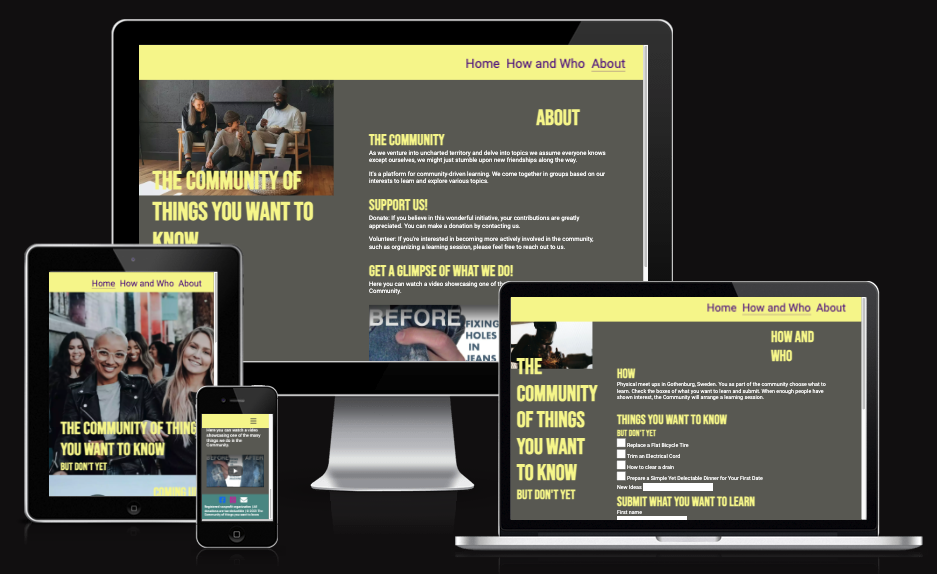
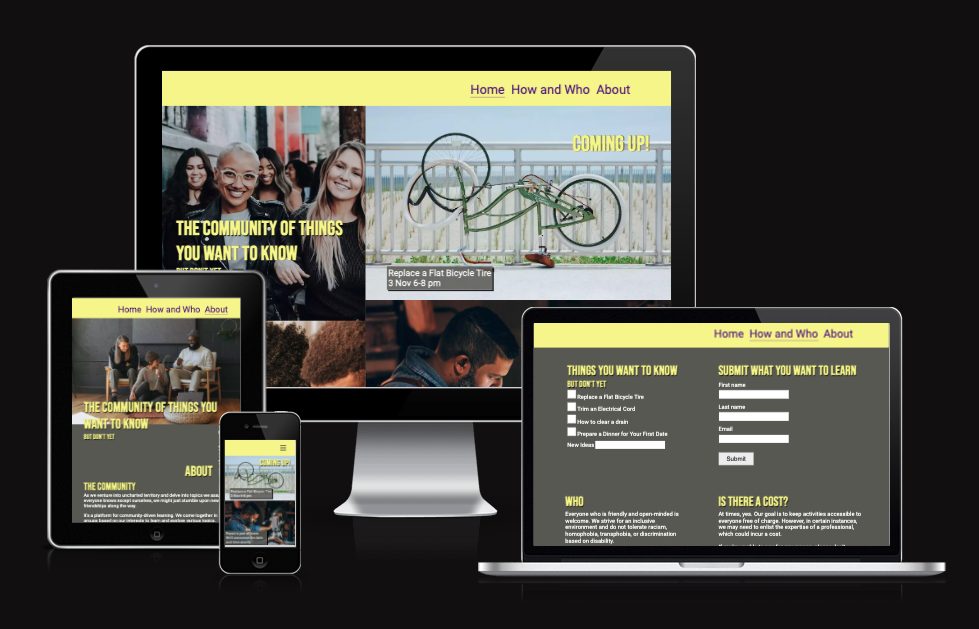
Put sectionsbeside eachother in wider screen 1200px

diff --git a/how_and_who.html b/how_and_who.html
@@ -73,42 +73,43 @@
 
 			<!--Form on things the user wants to learn -->
 			<section class="form information">
-				<div id="form_learning">
-					<h4>Things you want to know</h4>
-					<h5>but don't yet</h5>
 					<!--The Code Institute link https://formdump.codeinstitute.net does not give back all the data -->
 					<!--Therefor I use another link. The link below was found at https://html.form.guide/checkbox/html-checkbox-form-submit-value/-->
 					<form action="https://show.ratufa.io/form" class="information" id="checkbox" method="post"
 						name="checkbox">
 						<!-- Checkbox options for things to learn -->
-						<input class="checkbox" id="flat_tire" name="flat tire" type="checkbox" value="flat_tire">
-						<label for="flat_tire">Replace a Flat Bicycle Tire</label><br>
-						<input class="checkbox" id="trim_electric_cord" name="trim elctric cord" type="checkbox"
-							value="trim_electric_cord"> <label for="trim_electric_cord">Trim an Electrical
-							Cord</label><br>
-						<input class="checkbox" id="clear_drain" name="clear a drain" type="checkbox"
-							value="clear_drain"> <label for="clear_drain">How to clear a drain</label><br>
-						<input class="checkbox" id="first_date_dinner" name="first date dinner" type="checkbox"
-							value="first_date_dinner"> <label for="first_date_dinner">Prepare a Dinner for Your First
-							Date</label><br>
-						<label for="new_ideas_text">New Ideas</label> <input class="input_square" id="new_ideas_text"
-							name="new_ideas" type="text" value="">
-				</div>
-				<!-- Submit form -->
-				<div class="submit_form">
-					<h4>Submit what you want to learn</h4><label for="fname">First name</label><br>
-					<input autocomplete="on" class="input_square" id="fname" name="first-name" required=""
+						<div id="form_learning">
+							<h4>Things you want to know</h4>
+							<h5>but don't yet</h5>
+							<input class="checkbox" id="flat_tire" name="flat tire" type="checkbox" value="flat_tire">
+							<label for="flat_tire">Replace a Flat Bicycle Tire</label><br>
+							<input class="checkbox" id="trim_electric_cord" name="trim elctric cord" type="checkbox"
+								value="trim_electric_cord"> <label for="trim_electric_cord">Trim an Electrical
+								Cord</label><br>
+							<input class="checkbox" id="clear_drain" name="clear a drain" type="checkbox"
+								value="clear_drain"> <label for="clear_drain">How to clear a drain</label><br>
+							<input class="checkbox" id="first_date_dinner" name="first date dinner" type="checkbox"
+								value="first_date_dinner"> <label for="first_date_dinner">Prepare a Dinner for Your First
+								Date</label><br>
+							<label for="new_ideas_text">New Ideas</label> <input class="input_square" id="new_ideas_text"
+								name="new_ideas" type="text" value="">
+						</div>
+						<!-- Submit form -->
+						<div class="submit_form">
+						<h4>Submit what you want to learn</h4><label for="fname">First name</label><br>
+						<input autocomplete="on" class="input_square" id="fname" name="first-name" required=""
 						type="text"><br>
-					<label for="lname">Last name</label><br>
-					<input autocomplete="on" class="input_square" id="lname" name="last-name" required=""
+						<label for="lname">Last name</label><br>
+						<input autocomplete="on" class="input_square" id="lname" name="last-name" required=""
 						type="text"><br>
-					<label for="email">Email</label><br>
-					<input autocomplete="on" class="input_square" id="email" name="email" required="" type="email">
-					<div id="button">
+						<label for="email">Email</label><br>
+						<input autocomplete="on" class="input_square" id="email" name="email" required="" type="email">
+						<div id="button">
 						<input id="submit" name="submit" type="submit" value="Submit">
-					</div>
+						</div>
+						</div>
+					</form>
 				</div>
-				</form>
 			</section><!--End of section class="form"-->
 
 			<!-- Who section. More information who can join -->

diff --git a/assets/css/style.css b/assets/css/style.css
@@ -677,7 +677,7 @@ label {
 
 		.logo_h_w {
 			align-self: flex-end;
-			margin-left: 10%;
+			margin-left: 30%;
 		}
 
 		#how_and_who_headline {
@@ -702,12 +702,10 @@ label {
 		#form_learning {
 			float: left;
 			margin-left: -53%;
-			margin-top: 10%;
-		}
+					}
 
 		.submit_form {
-			margin-top: 10%;
-			margin-left: 25%;
+			margin-left: 35%;
 		}
 
 		.who {

diff --git a/README.md b/README.md
@@ -1,8 +1,6 @@
 
 # The Community of Things You Want to Know - But Don't Yet
 
-<a href="https://aslinedvinsson.github.io/The-community-of-things-to-know-PP1/" target="_blank">Linkt to the deployed website The Community of Things You Want to Know - But Don't Yet</a>
-
 A website for Connecting, Learning, and Building Friendships Together.
 
 ![alt-text](documentation/responsive.png)
